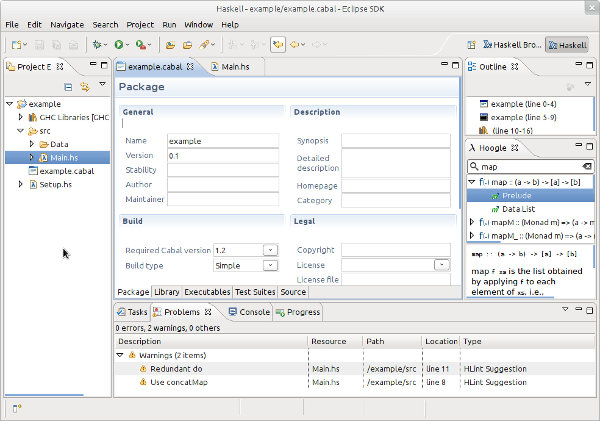
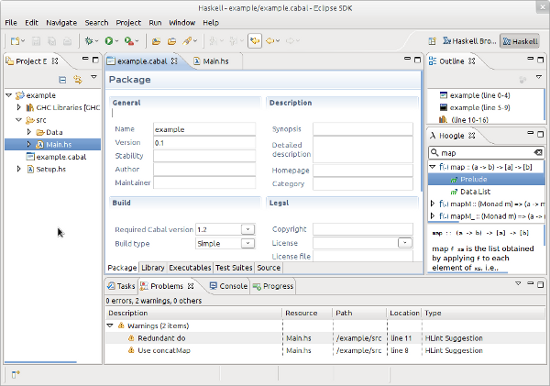
Scale initial image.

diff --git a/index.md b/index.md
@@ -15,8 +15,7 @@ title_show: EclipseFP
 
 <table width="800px">
 <tr>
-<td width="620px" align="center"><img src="images/all.png" /></td>
-<td valign="center" width="180px">
+<td valign="center" width="230px">
 EclipseFP brings you the power of Eclipse to your daily Haskell programming. The features of EclipseFP include:
 <ul>
 <li>Graphical debugging of modules,</li>
@@ -27,6 +26,7 @@ EclipseFP brings you the power of Eclipse to your daily Haskell programming. The
 </ul>
 If you want to try EclipseFP follow the <a href="install.html">installation instructions</a>.
 </td>
+<td width="570px" align="center"><img src="images/all.png" /></td>
 </tr>
 </table>
 <br />
